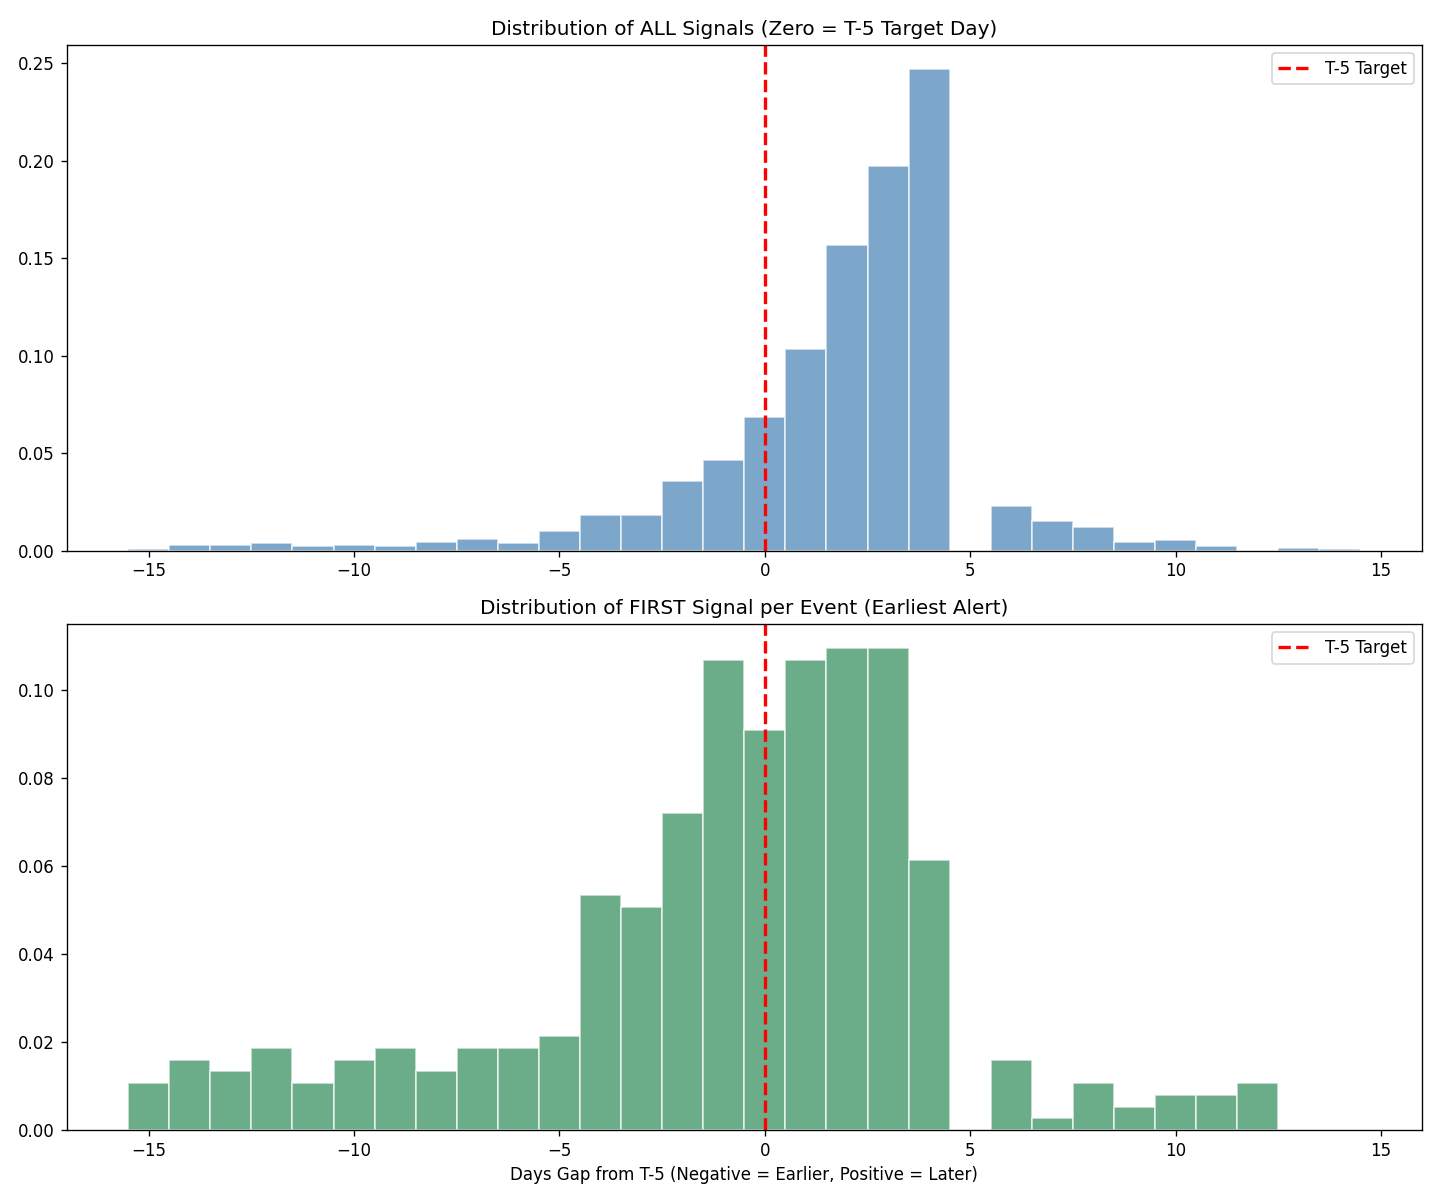
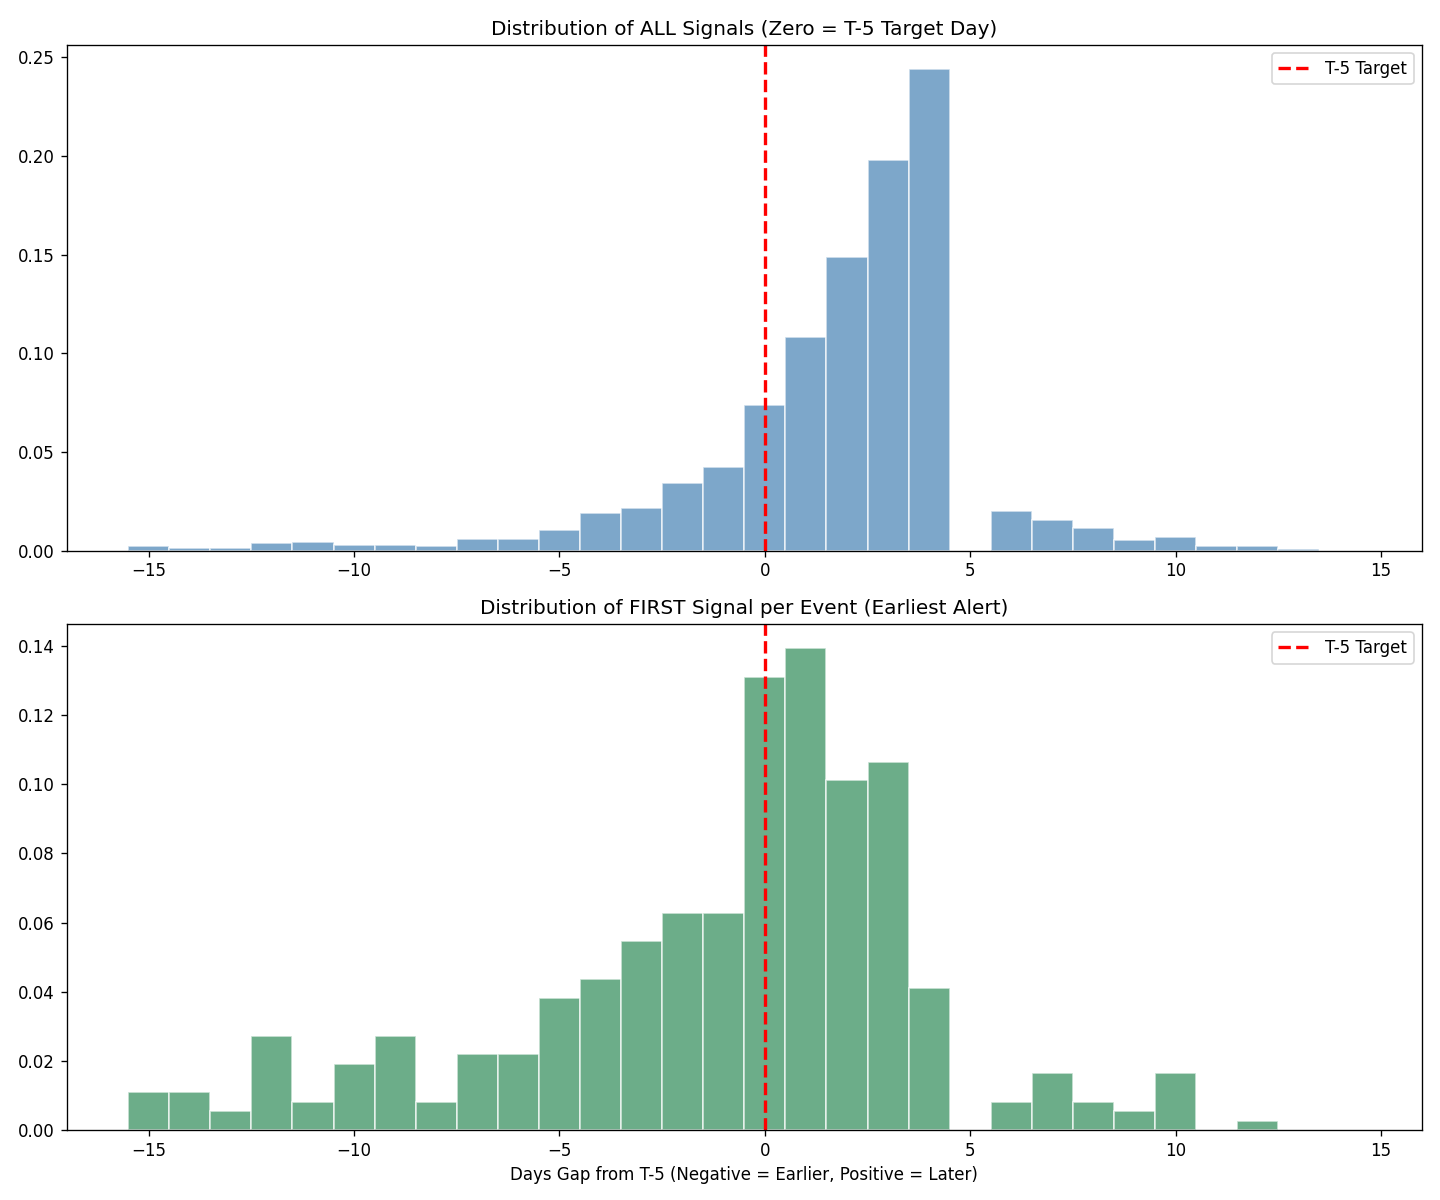
y dropna

diff --git a/main.py b/main.py
@@ -15,12 +15,14 @@ CUTOFF_DATE = pd.Timestamp('2025-09-30')
 START_DATE_DEFAULT = pd.Timestamp('2022-01-01')
 
 def run_daily_inference():
-    # --- 1. 数据同步部分保持不变 ---
+    # --- 1. 数据同步逻辑 ---
     hdfs = fs.HadoopFileSystem('hdfs://ftxz-hadoop', user='zli')
     if not os.path.exists(PARQUET_PATH):
-        latest_date = START_DATE_DEFAULT - pd.Timedelta(days=1); hist_df = pd.DataFrame()
+        latest_date = START_DATE_DEFAULT - pd.Timedelta(days=1)
+        hist_df = pd.DataFrame()
     else:
-        hist_df = pd.read_parquet(PARQUET_PATH); hist_df['date_dt'] = pd.to_datetime(hist_df['date'])
+        hist_df = pd.read_parquet(PARQUET_PATH)
+        hist_df['date_dt'] = pd.to_datetime(hist_df['date'])
         latest_date = hist_df['date_dt'].max()
 
     new_files = get_hdfs_files(hdfs, OLD_FOLDER, latest_date + pd.Timedelta(days=1), CUTOFF_DATE)
@@ -34,56 +36,56 @@ def run_daily_inference():
                 with hdfs.open_input_file(path) as f:
                     tmp = pq.read_table(f, columns=['symbol_str', 'volume']).to_pandas()
                 day_sum = tmp.groupby('symbol_str').agg({'volume': 'last'}).reset_index()
-                day_sum['date'] = f_date.strftime('%Y-%m-%d'); new_data_list.append(day_sum)
-            except: continue
+                day_sum['date'] = f_date.strftime('%Y-%m-%d')
+                new_data_list.append(day_sum)
+            except:
+                continue
         if new_data_list:
             inc_df = pd.concat(new_data_list, ignore_index=True)
-            inc_df = finalize_symbol_parsing_v5(inc_df); inc_df['date_dt'] = pd.to_datetime(inc_df['date'])
+            inc_df = finalize_symbol_parsing_v5(inc_df)
+            inc_df['date_dt'] = pd.to_datetime(inc_df['date'])
             hist_df = pd.concat([hist_df, inc_df], ignore_index=True).drop_duplicates(subset=['symbol_code', 'delivery_code', 'date'], keep='last')
             hist_df.to_parquet(PARQUET_PATH, index=False)
-
-    # --- 2. 特征工程与标签 ---
     cal = get_pure_calendar()
     df = make_features_logic(hist_df)
     df = df.merge(cal[['date_dt', 'is_eve_of_long_holiday', 'is_before_holiday']], on='date_dt', how='left')
     
-    # 构建训练标签 (T+5 逻辑)
-    df['target_t5'] = df.groupby(['symbol_code', 'delivery_code'])['volume_share'].shift(-5)
-    df['label'] = (df.groupby(['symbol_code', 'date_dt'])['target_t5'].transform(lambda x: x == x.max()) & (df['target_t5'] > 0.1)).astype(int)
+    df['rank'] = df.groupby(['symbol_code', 'date_dt'])['volume'].rank(ascending=False, method='first')
+    rank_t5 = df.groupby(['symbol_code', 'delivery_code'])['rank'].shift(-5)
+    target_val_t5 = df.groupby(['symbol_code', 'delivery_code'])['volume_share'].shift(-5)
+    
+    df['label'] = np.where(
+        (rank_t5.isna()) | (rank_t5 <= 0),
+        np.nan,
+        ((rank_t5 == 1) & (target_val_t5 > 0.1)).astype(float)
+    )
     
     feature_cols = ['volume_share', 'is_eve_of_long_holiday', 'is_before_holiday'] + \
                    [f'share_ma_{k}' for k in [3,5,10]] + [f'share_lag_{k}' for k in [3,5,10]] + \
                    [f'share_v_{k}' for k in [3,5,10]] + [f'share_a_{k}' for k in [3,5,10]]
     
-    # --- 3. 训练模型 (保持全量训练，但避开最近 10 天防止 Label 泄露) ---
     today_dt = df['date_dt'].max()
-    train_df = df[df['date_dt'] <= today_dt - pd.Timedelta(days=10)].dropna(subset=['label'] + feature_cols)
+    train_df = df.dropna(subset=['label'] + feature_cols).copy()
+    train_df = train_df[train_df['date_dt'] < today_dt]
     
     clf = lgb.LGBMClassifier(n_estimators=150, learning_rate=0.05, num_leaves=31, verbosity=-1)
     clf.set_params(objective=asymmetric_binary_logloss)
     clf.fit(train_df[feature_cols], train_df['label'])
 
-    # --- 4. 每日推断报警逻辑 (严格对齐回测) ---
     curr = df[df['date_dt'] == today_dt].copy()
-    # 计算原始分数并转化为概率
+    if curr.empty:
+        print(f"Warning: No data found for today ({today_dt.date()})")
+        return
+
     curr['prob'] = 1.0 / (1.0 + np.exp(-clf.predict(curr[feature_cols], raw_score=True)))
     
-    # 确定当前的真实主力 (Rank 1)
-    curr['rank'] = curr.groupby('symbol_code')['volume'].rank(ascending=False, method='first')
-    # 确定模型预测的最佳换月目标 (Pred Rank 1)
+    curr['curr_rank'] = curr.groupby('symbol_code')['volume'].rank(ascending=False, method='first')
     curr['pred_rank'] = curr.groupby('symbol_code')['prob'].rank(ascending=False, method='first')
     
-    # 【核心对齐】：触发报警条件
-    # 1. 模型认为该合约是 T+5 概率最大的 (pred_rank == 1)
-    # 2. 该合约目前还不是主力 (rank != 1)
-    # 3. 概率必须超过 0.5 (阈值过滤)
-    curr['is_alert'] = (curr['pred_rank'] == 1) & (curr['rank'] != 1) & (curr['prob'] > 0.5)
+    curr['is_alert'] = (curr['pred_rank'] == 1) & (curr['curr_rank'] != 1) & (curr['prob'] > 0.5)
 
-    # 提取报警信号
     signals = curr[curr['is_alert']].copy()
-    
-    # 关联当前主力信息，方便观察对比
-    majors = curr[curr['rank'] == 1][['symbol_code', 'delivery_code', 'volume']].rename(
+    majors = curr[curr['curr_rank'] == 1][['symbol_code', 'delivery_code', 'volume']].rename(
         columns={'delivery_code': 'Current_Major', 'volume': 'Current_Vol'}
     )
     
@@ -94,7 +96,6 @@ def run_daily_inference():
         'prob': 'Confidence'
     })
     
-    # 按置信度排序输出
     res = res[['symbol_code', 'Current_Major', 'Target_Major', 'Confidence', 'Current_Vol', 'Target_Vol']]
     res = res.sort_values('Confidence', ascending=False)
 

diff --git a/report.py b/report.py
@@ -28,10 +28,12 @@ def run_main_pipeline(data_path="contract_volume.parquet", split_date_str='2025-
     
     print(">>> Step 2: Feature Engineering...")
     df = make_features_logic(df)
-    # 标签：T+5 是否为主力
-    df['is_main_t5'] = df.groupby(['symbol_code', 'delivery_code'])['rank'].shift(-5).apply(lambda x: 1 if x == 1 else 0)
-
-    # 排除初始合约干扰
+    rank_t5 = df.groupby(['symbol_code', 'delivery_code'])['rank'].shift(-5)
+    df['is_main_t5'] = np.where(
+        (rank_t5.isna()) | (rank_t5 <= 0), 
+        np.nan, 
+        (rank_t5 == 1).astype(float)
+    )
     drop_idx = []
     for sym in df['symbol_code'].unique():
         sym_df = df[df['symbol_code'] == sym].sort_values('date_dt')
@@ -45,16 +47,13 @@ def run_main_pipeline(data_path="contract_volume.parquet", split_date_str='2025-
 
     split_date = pd.to_datetime(split_date_str)
     
-    # 训练集：严格 split_date 之前
-    train_df = df[df['date_dt'] < split_date].dropna(subset=['is_main_t5', 'share_ma_10']).copy()
-    
-    # 测试集：为了绘图和统计纯净，直接从 split_date 开始
-    # 如果需要计算特征的滞后项，make_features_logic 已经在全量 df 上做过了，这里可以直接截断
+    train_df = df[df['date_dt'] < split_date].dropna(subset=['is_main_t5'] + feature_cols).copy()
+
     test_df = df[df['date_dt'] >= split_date].copy()
 
     print(f">>> Step 3: Training Model (Data before {split_date.date()})...")
     clf = lgb.LGBMClassifier(
-        n_estimators=150, # 配合不对称损失，建议不需要太深
+        n_estimators=300,
         learning_rate=0.05, 
         objective=asymmetric_binary_logloss, 
         verbose=-1

diff --git a/calculators.py b/calculators.py
@@ -79,18 +79,15 @@ def calculate_full_performance(full_test_df, split_date, trade_dates_list):
     summary_list, global_gaps, audit_records, matched_pred_dates = [], [], [], {}
     symbols = full_test_df['symbol_code'].unique()
     for sym in symbols:
-        # --- 修复 1: 添加缺失的 sym_sub 定义 ---
         sym_sub = full_test_df[full_test_df['symbol_code'] == sym].sort_values('date_dt').copy()
         
         daily_main = sym_sub[sym_sub['rank'] == 1].drop_duplicates('date_dt').set_index('date_dt')['delivery_code']
-        
-        # --- 修复 2: 使用 .iloc[1:] 避开 06-30 的伪换月 ---
         diff_mask = (daily_main != daily_main.shift(1))
-        real_sw_series = daily_main[diff_mask].iloc[1:] # 丢弃第一行记录
+        real_sw_series = daily_main[diff_mask].iloc[1:]
         
         real_events = []
         for d, to_c in real_sw_series.items():
-            if d <= split_date: continue # 双重保险
+            if d <= split_date: continue
             try:
                 idx = daily_main.index.get_loc(d)
                 real_events.append({'date': d, 'from': daily_main.iloc[idx-1], 'to': to_c, 'matched': False})

diff --git a/report.md b/report.md
@@ -7,10 +7,10 @@
 
 ## Basic Results
 - 测试时间范围：2025-06-30以后
-- 所有商品总计换月659个，预测信号1403次
+- 所有商品总计换月581个，预测信号1402次
 - 视换月前后的两个合约都匹配为match的条件
-   - recall = #(match) / #(real) = 88.81%
-   - precision = #(match) / #(pred) = 94.54%
+   - recall = #(match) / #(real) = 88.12%
+   - precision = #(match) / #(pred) = 94.65%
    - 误差来自于换月前后两个合约volume比较相近可能导致概率预测结果交错，以及volume变化混乱的品种
 
 <img src="./output_results/overall_gap_distribution.png" width="800px" alt="信号时间和真实换月时间gap分布">
